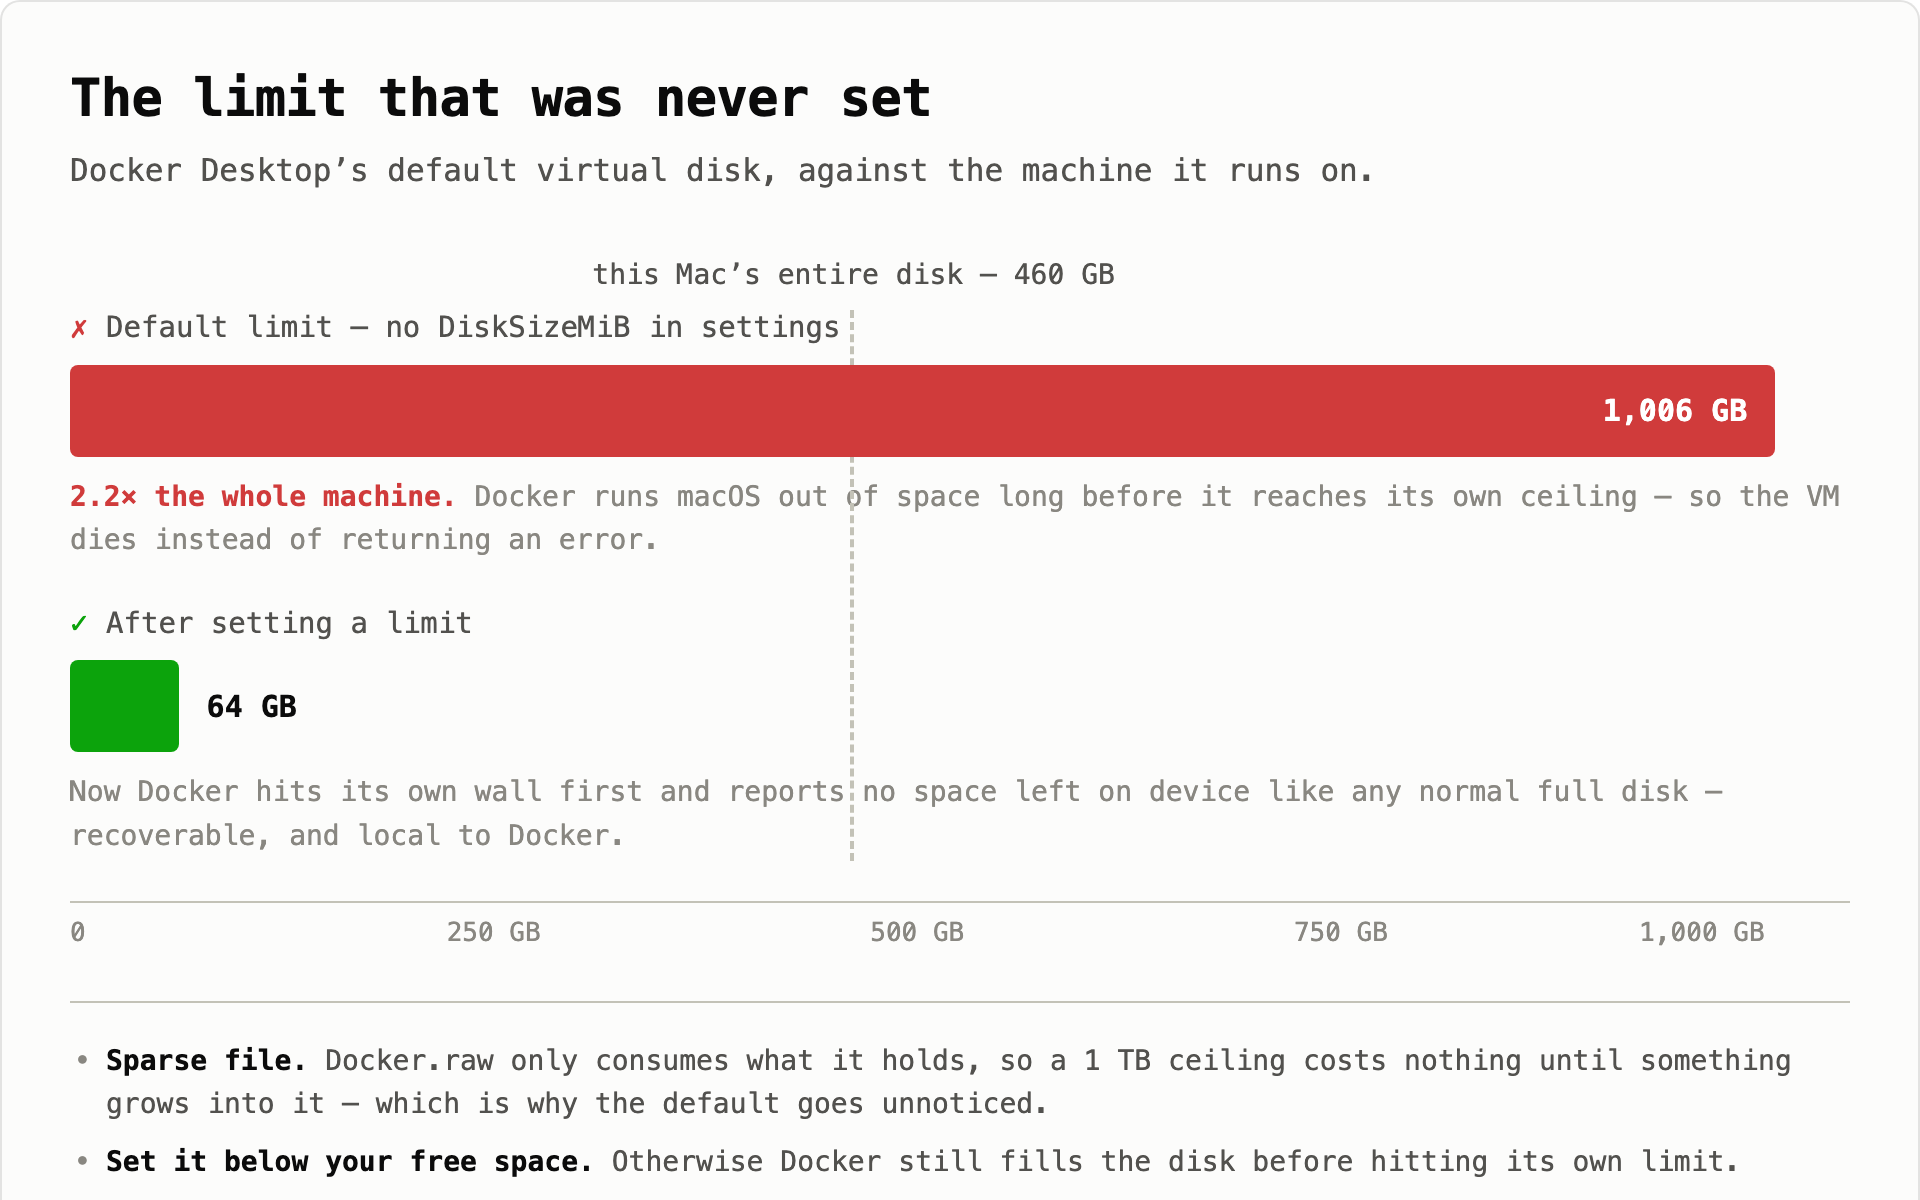
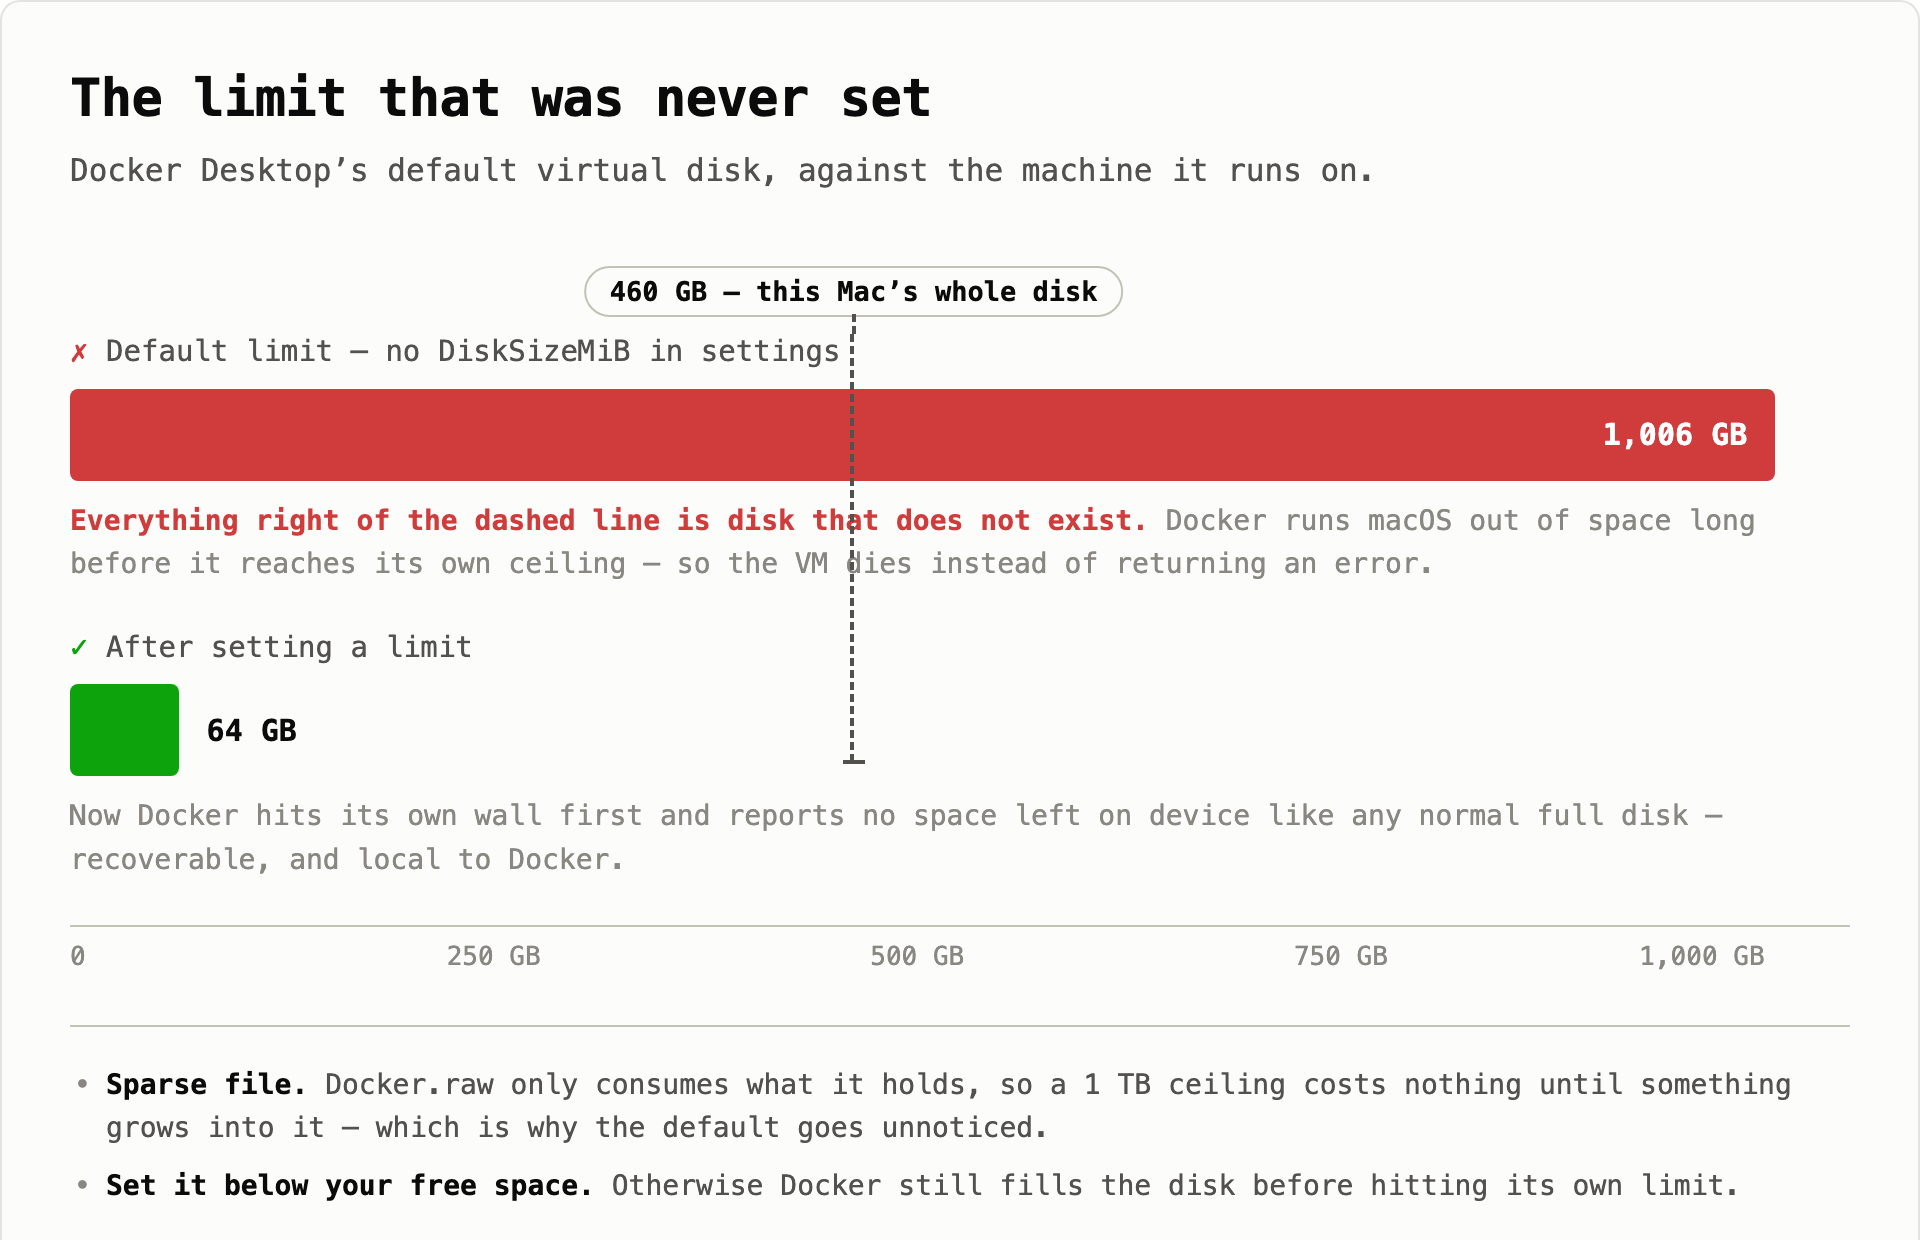
docs(www): make the reference line in the disk-limit figure legible
A reader asked what the dotted line in the middle was, which is the whole point
of the chart failing. It was drawn behind the bars in a near-invisible grey, so
it appeared as two disconnected fragments above and below the red bar, and its
label sat at the top of the figure with nothing tying the two together.

Now: the line is drawn above the marks in a stronger stroke so it visibly
crosses the bar — which is the message, that the bar runs past the machine — with
its label as a pill anchored directly to it, and an end-cap below the second bar
so it terminates deliberately instead of trailing into the paragraph beneath.
The annotation next to it now says outright that everything right of the line is
disk that does not exist. Alt text and caption updated to match.

diff --git a/services/www/content/posts/2026/09/docker-desktop-disk-full-macos/index.md b/services/www/content/posts/2026/09/docker-desktop-disk-full-macos/index.md
@@ -323,7 +323,7 @@ cat ~/Library/Group\ Containers/group.com.docker/settings-store.json
 
 No `DiskSizeMiB` key. None. Docker Desktop had never been given a disk limit, so it used the default — the 1 TB virtual maximum from earlier.
 
-{{< cfimage src="images/Docker default disk limit.png" alt="Docker's default disk limit of 1,006 GB shown against a dashed line marking this Mac's entire 460 GB disk — the limit is more than twice the machine. Below it, the limit after the fix: 64 GB." caption="The default ceiling was **2.2× the size of the whole machine**, so Docker could never reach it — macOS ran out first." >}}
+{{< cfimage src="images/Docker default disk limit.png" alt="Docker's default limit of 1,006 GB drawn as a bar that crosses a labelled dashed line at 460 GB — this Mac's whole disk — and keeps going. Below it, the limit after the fix: a 64 GB bar that stops well short of the line." caption="The dashed line is the size of the entire Mac. The default ceiling runs straight past it — **2.2× the whole machine** — so Docker could never reach its own limit; macOS ran out first." >}}
 
 On a 460 GB Mac, a 1 TB ceiling means Docker's effective limit is **the entire machine**. That's why the failure was so violent. Instead of Docker hitting its own wall and returning a normal `no space left on device` to whatever was writing, it kept growing until macOS itself ran out — and the VM died mid-write.
 
